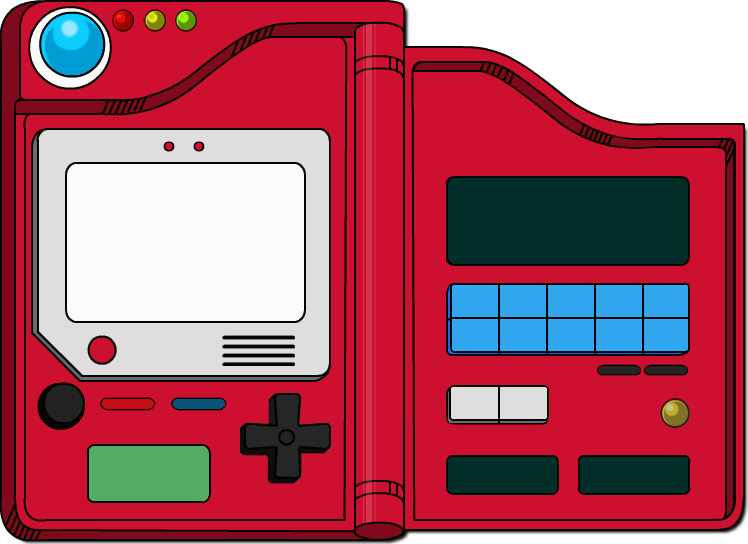
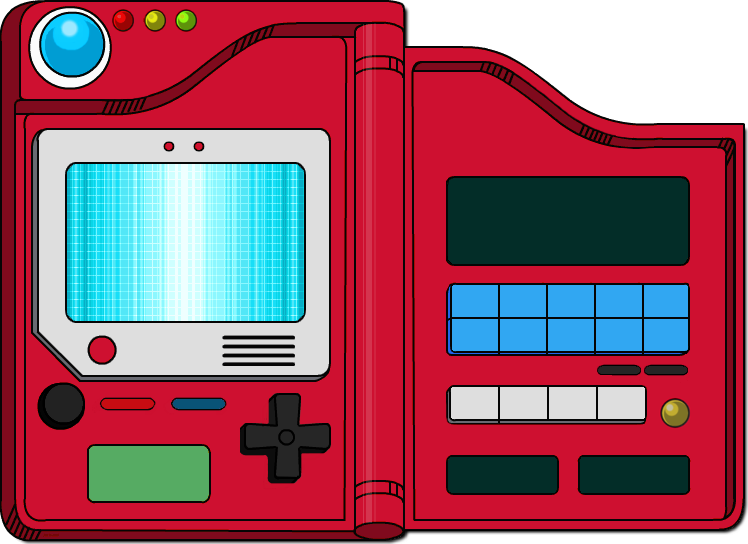
Added PokeDex UI( edited pokedex ui (edits done by me) gender option name description updated pokedex background )
Added Search Function(
changed gender / shiny image to only show one image depending on which button selected
)

Changed region(s): [[0.0922, 0.2812, 0.4305, 0.5938], [0.7072, 0.6875, 0.8917, 0.7812]]

diff --git a/script.js b/script.js
@@ -1,21 +1,11 @@
-let url = "https://pokeapi.co/api/v2/pokemon/ditto"
-document.getElementById("imgfemaleshiny").style.display = "none"
-document.getElementById("imgfemale").style.display = "none"
-document.getElementById("imgshiny").style.display = "none"
-document.getElementById("img").style.display = "none"
+document.getElementById("imgfemaleshiny").style.display = "none";
+document.getElementById("imgfemale").style.display = "none";
+document.getElementById("imgshiny").style.display = "none";
+document.getElementById("img").style.display = "none";
 
-btn.addEventListener("click", function() {
-fetch(url)
-  .then(response => response.json()) 
-  .then(data)
-});
-
-function data (e) {
-
-  console.log(e)
-}
 
 submit.addEventListener("click", function() {
+clearImage()
 let search = document.getElementById("srch");
 
 // Image of Pokemon
@@ -25,32 +15,31 @@ fetch(url2)
 .then(function(res){
   
   // show image
-  document.getElementById("img").style.display = "inline"
+  document.getElementById("img").style.display = "inline";
   document.getElementById("img").src = res.sprites.front_default;
   document.getElementById("imgshiny").src = res.sprites.front_shiny;
 
   // Check if female sprites available
   if(res.sprites.front_female == null){
-    document.getElementById("imgfemale").src = "https://www.flaticon.com/svg/static/icons/svg/390/390914.svg"
+    document.getElementById("imgfemale").src = "https://www.flaticon.com/svg/static/icons/svg/390/390914.svg";
   }
   else {
     document.getElementById("imgfemale").src = res.sprites.front_female;
-  } 
+  }
 
   if(res.sprites.front_female == null){
-    document.getElementById("imgfemaleshiny").src = "https://www.flaticon.com/svg/static/icons/svg/390/390914.svg"
+    document.getElementById("imgfemaleshiny").src = "https://www.flaticon.com/svg/static/icons/svg/390/390914.svg";
   }
   else {
     document.getElementById("imgfemaleshiny").src = res.sprites.front_shiny_female;
   } 
-
 })
 .catch(function(error
 ){
   console.log(error);
 })
 
-// Weight & Height of Pokemon
+// Set details of Pokemon
 let url3 = "https://pokeapi.co/api/v2/pokemon/" + search.value
 fetch(url3)
 .then(response => response.json())
@@ -69,7 +58,13 @@ fetch(url3)
   }
   else {
     document.getElementById("type2").innerHTML = res.types[1].type.name;
-  } 
+  }
+
+  // Set name
+  var pokename = res.name;
+  // Capitalize first letter
+  pokename = pokename.charAt(0).toUpperCase() + pokename.slice(1);
+  document.getElementById("name").innerHTML = pokename;
 })
 .catch(function(error
 ){
@@ -85,7 +80,7 @@ fetch(url4)
   // For loop to run through and retrieve the first english description (sometimes the first description may not neccesarily be in english)
   for (i=0; i < res.flavor_text_entries.length; i++){
     if (res.flavor_text_entries[i].language.name == "en"){
-      var string = res.flavor_text_entries[i].flavor_text
+      var string = res.flavor_text_entries[i].flavor_text;
       string = string.replace("\u000c", " ") // Removing the unicode icon that is included in the api string value
       document.getElementById("desc").innerHTML = string;
       break;
@@ -96,47 +91,80 @@ fetch(url4)
 ){
  console.log(error);
 })
-
-
-});
-
-malebtn.addEventListener("click", function() {
-  document.getElementById("imgfemale").style.display = "none"
-  document.getElementById("imgfemaleshiny").style.display = "none"
-  document.getElementById("img").style.display = "inline"
-  document.getElementById("imgshiny").style.display = "inline"
-});
-
-femalebtn.addEventListener("click", function() {
-  document.getElementById("imgfemale").style.display = "inline"
-  document.getElementById("imgfemaleshiny").style.display = "inline"
-  document.getElementById("img").style.display = "none"
-  document.getElementById("imgshiny").style.display = "none"
 });
 
 // Switch between default and shiny image
 defaultbutton.addEventListener("click", function() {
-  console.log("default btn")
+  console.log("default btn");
+
+  // if female shiny displayed, change to female default
   if (document.getElementById("imgfemaleshiny").style.display == "inline"){
-    document.getElementById("imgfemale").style.display = "inline"
-    document.getElementById("imgfemaleshiny").style.display = "none"
+    document.getElementById("imgfemale").style.display = "inline";
+    document.getElementById("imgfemaleshiny").style.display = "none";
   }
-  if (document.getElementById("imgshiny").style.display = "inline"){
-    document.getElementById("img").style.display = "inline"
-    document.getElementById("imgshiny").style.display = "none"
+
+  // if male shiny displayed, change to male default
+  if (document.getElementById("imgshiny").style.display == "inline"){
+    document.getElementById("img").style.display = "inline";
+    document.getElementById("imgshiny").style.display = "none";
   }
 });
 
 shinybutton.addEventListener("click", function() {
-  console.log("shiny btn")
+  console.log("shiny btn");
+
+  // if female displayed, change to female shiny
   if (document.getElementById("imgfemale").style.display == "inline"){
-    document.getElementById("imgfemaleshiny").style.display = "inline"
-    document.getElementById("imgfemale").style.display = "none"
+    document.getElementById("imgfemaleshiny").style.display = "inline";
+    document.getElementById("imgfemale").style.display = "none";
   }
-  if (document.getElementById("img").style.display = "inline"){
-    console.log("shiny change")
-    document.getElementById("imgshiny").style.display = "inline"
-    document.getElementById("img").style.display = "none"
+
+  // if male displayed, change to male shiny
+  if (document.getElementById("img").style.display == "inline"){
+    console.log("shiny change");
+    document.getElementById("imgshiny").style.display = "inline";
+    document.getElementById("img").style.display = "none";
     
   }
 });
+
+malebtn.addEventListener("click", function() {
+  console.log("default btn");
+
+  // if female displayed, change to male
+  if (document.getElementById("imgfemale").style.display == "inline"){
+    console.log("1");
+    document.getElementById("imgfemale").style.display = "none";
+    document.getElementById("img").style.display = "inline";
+  }
+
+  // if female shiny displayed, change to male shiny
+  if (document.getElementById("imgfemaleshiny").style.display == "inline"){
+    console.log("2");
+    document.getElementById("imgfemaleshiny").style.display = "none";
+    document.getElementById("imgshiny").style.display = "inline";
+  }
+});
+
+femalebtn.addEventListener("click", function() {
+  console.log("default btn")
+
+  // if male displayed, change to female
+  if (document.getElementById("img").style.display == "inline"){
+    document.getElementById("img").style.display = "none";
+    document.getElementById("imgfemale").style.display = "inline";
+  }
+
+  // if male shiny displayed, change to female shiny
+  if (document.getElementById("imgshiny").style.display == "inline"){
+    document.getElementById("imgshiny").style.display = "none";
+    document.getElementById("imgfemaleshiny").style.display = "inline";
+  }
+});
+
+function clearImage(){
+  document.getElementById("imgfemaleshiny").style.display = "none";
+  document.getElementById("imgfemale").style.display = "none";
+  document.getElementById("imgshiny").style.display = "none";
+  document.getElementById("img").style.display = "none";
+};

diff --git a/style.css b/style.css
@@ -4,15 +4,11 @@
          url('../font/munro-webfont.woff') format('woff');
     font-weight: normal;
     font-style: normal;
-    font-smooth: never;
-    -webkit-font-smoothing: antialiased;
-
 }
     
 .pokedexcontainer {
     position: absolute;
     width: 100%;
-    z-index: 1;
 }
 
 .imgpokedex {
@@ -21,7 +17,6 @@
     left: 90px;
     width: auto;
     height: 180px;
-    z-index: 2;
 }
 
 #shinybutton {
@@ -34,8 +29,6 @@
   left: 500px;
   height: 32px;
   width: 47px;
-  z-index: 2;
-
 }
 
 #defaultbutton {
@@ -43,14 +36,76 @@
   font-size: 15px;
   font-weight: bold;
   position: absolute;
-    padding-left: 2px;
-    top: 387px;
-    left: 451px;
-    height: 32px;
-    width: 47px;
-    z-index: 2;
+  padding-left: 2px;
+  top: 387px;
+  left: 451px;
+  height: 32px;
+  width: 47px;
 }
+
+#malebtn {
+  font-family: 'munroregular';
+  font-size: 15px;
+  font-weight: bold;
+  position: absolute;
+  padding-left: 5px;
+  top: 387px;
+  left: 549px;
+  height: 32px;
+  width: 47px;
+}
+
+#femalebtn {
+  font-family: 'munroregular';
+  font-size: 15px;
+  font-weight: bold;
+  position: absolute;
+  padding-left: 2px;
+  top: 387px;
+  left: 597px;
+  height: 32px;
+  width: 48px;
+}
+
 
 #testbutton{
   font-family: 'munroregular';
+}
+
+#srch {
+  font-family: 'munroregular';
+  font-size: 15px;
+  position: absolute;
+  padding-left: 5px;
+  top: 136px;
+  left: 81px;
+  width: 150px;
+}
+
+#submit {
+  font-family: 'munroregular';
+  font-size: 15px;
+  font-weight: bold;
+  position: absolute;
+  top: 136px;
+  left: 231px;
+}
+
+#desc {
+  font-family: 'munroregular';
+  font-size: 14px;
+  color: rgb(245, 245, 245);
+  position: absolute;
+  top: 184px;
+  left: 455px;
+  width: 230px;
+}
+
+#name{
+  font-family: 'munroregular';
+  font-size: 20px;
+  color: rgb(245, 245, 245);
+  position: absolute;
+  top: 150px;
+  left: 455px;
 }

diff --git a/index.html b/index.html
@@ -9,28 +9,37 @@
   <body>
     <button id="btn">Next User!</button>
     <form>
-    <input type="text" id="srch" placeholder="Search.." name="search">
-    <button id="submit" type="button">test</button>
-    <button id="malebtn" type="button">male</button>
-    <button id="femalebtn" type="button">female</button>
+    
     <br>
     
     </form>
     <a href="../font/munro-demo.html">Continue</a>
     <br>
-    <div id = "desc">test</div>
     <div id = "weight">test</div>
     <div id = "height">test</div>
     <div id = "type1">test</div>
     <div id = "type2">test</div>
+
+
     <div class="pokedexcontainer">
+      <img src="../image/pokedex.png"></img>
+
+      <input type="text" id="srch" placeholder="Enter Pokémon Name" name="search">
+      <button type="button" id="submit" >Search</button>
+
       <img id="imgshiny" class="imgpokedex" src=""></img>
       <img id="imgfemale" class="imgpokedex" src=""></img>
       <img id="imgfemaleshiny"class="imgpokedex" src=""></img>
       <img id="img" class="imgpokedex" src=""></img>
-      <img src="../image/pokedex.png"></img>
+
+      <div id="name"></div>
+      <div id="desc"></div>
+      
       <button id="shinybutton" type="button">Shiny</button>
       <button id="defaultbutton" type="button">Default</button>
+      <button id="malebtn" type="button">Male</button>
+      <button id="femalebtn" type="button">Female</button>
+
     </div>
     <script src="https://cdnjs.cloudflare.com/ajax/libs/jquery/3.5.1/jquery.min.js"></script>
     <script src="script.js"></script>
